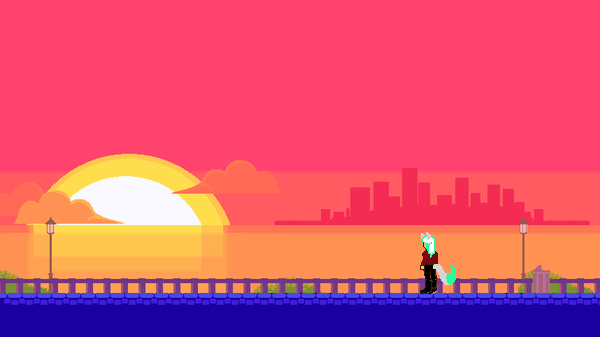
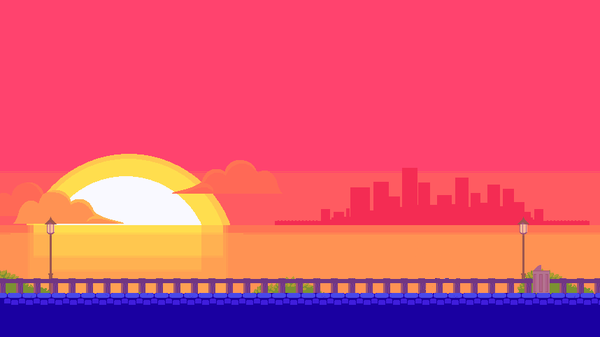
meh

Changed region(s): [[0.69, 0.6825, 0.78, 0.8902]]

diff --git a/Ambrose's Adventure/world.py b/Ambrose's Adventure/world.py
@@ -4,49 +4,60 @@ East = 1
 South = 2
 West = 3
 
-class Player:
+class Ambrose:
     def __init__(self, x, y):
         self.x = x
         self.y = y
-        self.tx = x
-        self.ty = y
-        self.image = [
-            ccircle.Image("image/AA_AmbroseCharModel.png"),
-            ccircle.Image("image/AA_AmbroseCharModel(2).png"),
-            ccircle.Image("image/AA_AmbroseCharModel(6).png"),
-            ccircle.Image("image/AA_AmbroseCharModel(3).png"),
-            ccircle.Image("image/AA_AmbroseCharModel(4).png"),
-            ccircle.Image("image/AA_AmbroseCharModel(5).png"),
-            ccircle.Image("image/AA_AmbroseSideStop.png"),
-            ccircle.Image("image/AA_AmbroseSideW.png"),
-            ccircle.Image("image/AA_AmbroseSideW(2).png"),
-            ccircle.Image("image/AA_AmbroseBehind.png"),
-            ccircle.Image("image/AA_AmbroseBehind(W).png"),
-            ccircle.Image("image/AA_AmbroseBehind(W2).png"),
-        ]
+        self.facing = "right"
+        self.action = "idle"
+        self.image = {
+            "walk_left":[ccircle.Image("image/AA_AmbroseSideW(2).png"),
+                            ccircle.Image("image/AA_AmbroseSideW.png"),
+                           ],
+            "walk_right":[ccircle.Image("image/AA_AmbroseCharModel(4).png"),
+                             ccircle.Image("image/AA_AmbroseCharModel(5).png"),
+                             ],
+            "walk_front":[ccircle.Image("image/AA_AmbroseCharModel(6).png"),
+                               ccircle.Image("image/AA_AmbroseCharModel(2).png"),
+                               ],
+            "walk_back":[ccircle.Image("image/AA_AmbroseBehind(W).png"),
+                                ccircle.Image("image/AA_AmbroseBehind(W2).png")
+                                ],
+            "idle_left":[ccircle.Image("image/AA_AmbroseSideStop.png"),
+                         ],
+            "idle_right":[ccircle.Image("image/AA_AmbroseCharModel(3).png"),
+                          ],
+            "idle_front":[ccircle.Image("image/AA_AmbroseCharModel.png"),
+                            ],
+            "idle_back":[ccircle.Image("image/AA_AmbroseBehind.png"),
+                             ]
+        }
 
-    if Player.isFacingE():
-        image.draw("")
+
 
     def draw(self):
-        self.image[self.facing].draw(900, 240, 89, 109)
+        state = self.action +"_"+ self.facing
+        self.image[state][0].draw(self.x, self.y, 89, 109)
 
-    def getName(self):
-        return 'pusheen'
+
 
     def update(self, dt):
         if ccircle.isKeyDown('left'):
-            self.y = 0
-            self.x = -50
-        if ccircle.isKeyDown('right'):
-            self.y = 0
-            self.x = 50
-        if ccircle.isKeyDown('up'):
-            self.y = -50
-            self.x = 0
-        if ccircle.isKeyDown('down'):
-            self.y = 50
-            self.x = 0
-
-
+            self.facing = "left"
+            self.action = "walk"
+            self.x  -=50*dt
+        elif ccircle.isKeyDown('right'):
+            self.facing = "right"
+            self.action = "walk"
+            self.x  +=50*dt
+        elif ccircle.isKeyDown('up'):
+            self.facing = "back"
+            self.action = "walk"
+            self.y -=50*dt
+        elif ccircle.isKeyDown('down'):
+            self.facing = "front"
+            self.action = "walk"
+            self.y  +=50*dt
+        else:
+            self.action = "idle"
 

diff --git a/Ambrose's Adventure/main.py b/Ambrose's Adventure/main.py
@@ -3,17 +3,13 @@ import world
 
 window = ccircle.Window("Ambroses Adventure")
 window.toggleMaximized()
-for i in range(2):
-    imageBG = ccircle.Image("image/AA_Cabin(Inside).png")
-    image = ccircle.Image("image/AA_AmbroseCharModel.png")
+imageBG = ccircle.Image("image/AA_Cabin(Inside).png")
 
-ambrose = world.Player(900, 244)
-
+ambrose = world.Ambrose(678, 109)
 while window.isOpen():
     window.clear(1, 1, 1)
     dt = 1/60
     imageBG.draw(2, 0, 1400, 730)
-    image.draw(900, 90, 89, 109)
 
     ambrose.update(dt)
     ambrose.draw()
